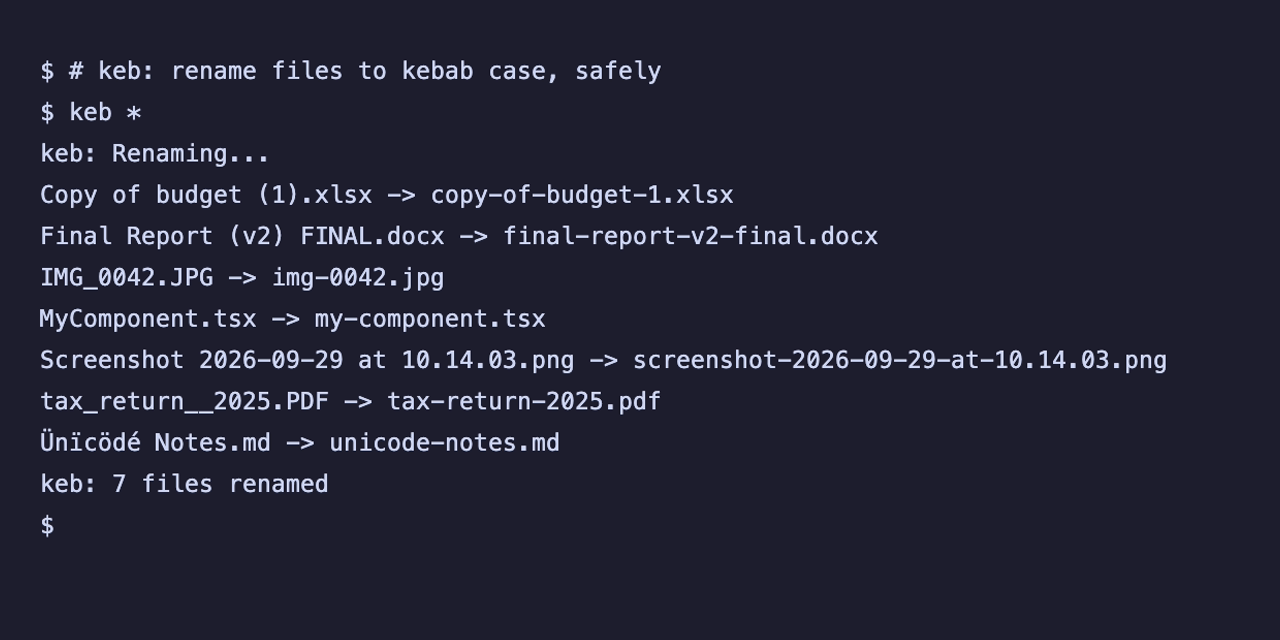
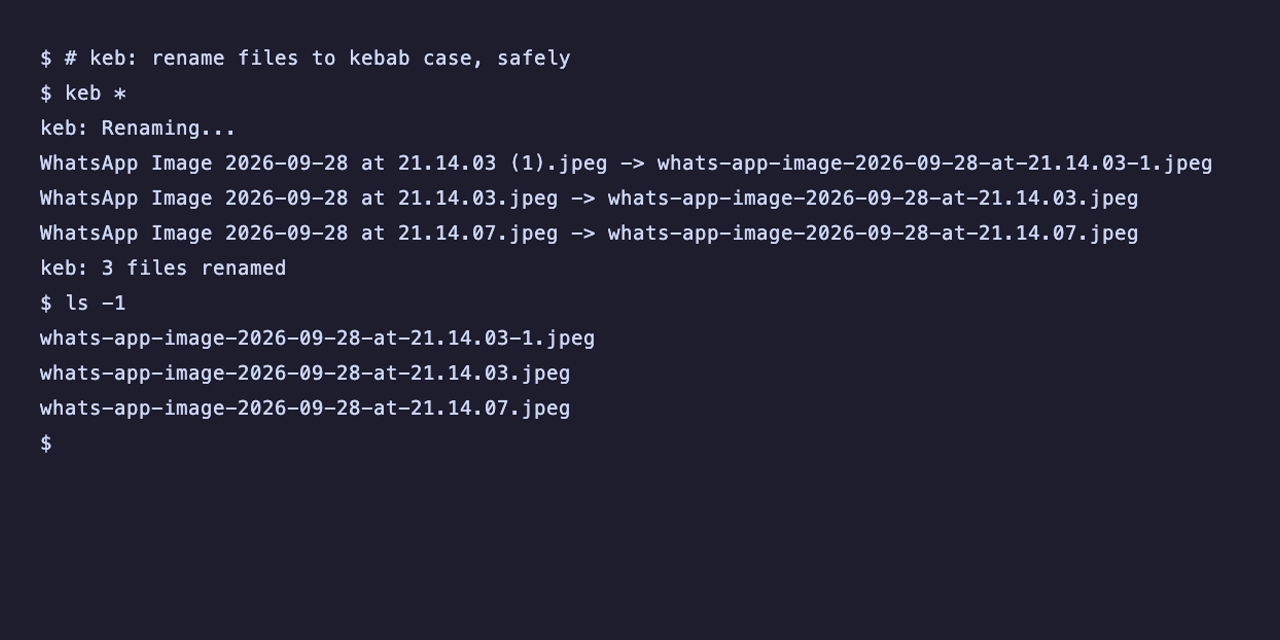
update main gif

Changed region(s): [[0.0312, 0.0625, 0.9688, 0.7812], [0.0312, 0.8125, 0.0625, 0.8438]]

diff --git a/next-steps.md b/next-steps.md
@@ -27,7 +27,7 @@ The plan for taking keb from "published" to "available everywhere, and known". W
   - The man page embeds the version → regenerate after every bump (added to `publish.md` step 1).
   - dist `include = ["completions/", "man/"]` — verified in a local `dist build` archive. `release.yml` unchanged.
   - `.gitattributes` forces LF on generated files so Windows CI doesn't fail the byte comparison.
-- [x] **Demo GIF.** `demo/setup.sh` recreates `playground/demo`; `demo/demo.tape` records `demo/keb.gif` (15 s, ~257 KB). Re-record: `cargo build --release && vhs demo/demo.tape`.
+- [x] **Demo GIF.** `demo/setup.sh` recreates `playground/demo` with three WhatsApp exports; `demo/demo.tape` records `demo/keb.gif` (list, `keb *`, list, with a reaction comment after each list; 16 s, ~164 KB). Re-record: `cargo build --release && vhs demo/demo.tape`.
 - [x] **README hero.** New tagline, GIF (absolute `raw.githubusercontent.com` URL so it renders on crates.io and npm — appears once pushed to `main`), and a "Why not `rename` or `mmv`?" section; every claim verified in the playground.
 - [x] `demo/` and `next-steps.md` excluded from the crate.
 
@@ -45,7 +45,7 @@ The plan for taking keb from "published" to "available everywhere, and known". W
   - Metadata is in `[package.metadata.deb]` / `[package.metadata.generate-rpm]`. The deb maintainer is `Adam Sawicki <frycz.dev@gmail.com>`.
   - Verified locally: built in `rust:1-bullseye` containers with dist's profile, then installed in `debian:bookworm` and `fedora:latest`. Checked `keb --version`, `man keb` (all sections, C locale), bash completion loading, file layout, auto-detected glibc dependency (`libc6 (>= 2.30)` / `GLIBC_2.30`), and clean removal. **The CI job itself is only proven on the next tag.**
 - [x] **cargo-binstall.** Works with no metadata. `cargo binstall keb@0.3.0 --disable-strategies quick-install,compile` installs from dist's GitHub assets (tested in a container).
-- [x] **Social preview image.** `demo/preview.tape` → `demo/preview.png` (1280×640, one frame of `keb *`, before → after on every line). Re-record: `cargo build --release && vhs demo/preview.tape`.
+- [x] **Social preview image.** `demo/preview.tape` → `demo/preview.png` (1280×640, one frame of `keb *` then `ls -1` on the same WhatsApp files). Re-record: `cargo build --release && vhs demo/preview.tape`.
 - [x] **Repo metadata command**, in "Owner, after batch 2" below.
 - [x] `CHANGELOG.md` `[Unreleased]` and `publish.md` (job order, verify step, recovery row, new "Linux packages" section with by-hand container checks) updated.
 
@@ -68,16 +68,81 @@ The plan for taking keb from "published" to "available everywhere, and known". W
 
 ## Batch 3 — package manifests (agent, after 0.4.0 is released)
 
-Needs the 0.4.0 release asset URLs and sha256 sums (from the Release's `.sha256` files).
+### State when batch 2 ended (2026-09-29)
 
-- [ ] **AUR:** two PKGBUILDs + `.SRCINFO` — `keb` (builds from the crate source) and `keb-bin` (prebuilt tarballs, x86_64 + aarch64). Install man page, completions and license. Verify with `makepkg` + `namcap` in an `archlinux` container.
-- [ ] **nixpkgs:** `pkgs/by-name/ke/keb/package.nix` using `rustPlatform.buildRustPackage`, `installShellFiles` for man + completions, `meta.license = lib.licenses.mit`, `meta.mainProgram = "keb"`. Verify with `nix-build` (local Nix or a `nixos/nix` container). Note: `tests/cli.rs` needs a writable temp dir; set `checkFlags`/`doCheck` if the sandbox breaks it.
-- [ ] **winget:** manifest set (version, installer, locale) for the Windows x64 zip, via `wingetcreate new` or hand-written; validate with `winget validate` if available.
-- [ ] **Scoop:** create `frycz/scoop-bucket` content — `keb.json` with `checkver` + `autoupdate` so future versions update themselves.
-- [ ] **aqua registry:** `pkgs/frycz/keb/registry.yaml` (github_release type, asset template per OS/arch). Makes `mise use aqua:frycz/keb` work.
-- [ ] Write `packaging.md`: per channel — what was prepared, where it lives, exact submission steps, and how to bump it on the next release.
+- **0.4.0 is released.** Published on crates.io, tagged `v0.4.0`, and the Release exists. The Release CI results: every build, `host`, Homebrew and both `custom-linux-packages` jobs succeeded. `publish-npm` failed as expected (the npm gap in `publish.md`), so `announce` was skipped.
+- **Not confirmed done by the owner yet.** Ask before assuming, and don't block on them:
+  - `npm publish` by hand.
+  - Upload the social preview.
+  - Run the `gh repo edit` command.
+- **`ci.yml` is red on Windows. Fix this before batch 3.** It is pre-existing, not from batch 2.
+  - Clippy used to fail first, on an `OsStr` import only the Unix code used; that is fixed in `6da4d71`. With clippy passing, 13 tests in `tests/cli.rs` now fail on `windows-latest` (run 36573886405). macOS and Ubuntu are green.
+  - Two causes, both path separators:
+    1. **Test-only:** the sandbox's `tree()` helper lists paths with `\`, while the tests expect `/`. Example: `["my-dir", "my-dir\\My File.md"]` vs `["my-dir", "my-dir/My File.md"]`.
+    2. **Real Windows output quirk:** keb builds the new path with `parent.join(new)`, so the output mixes separators: `./A Dir/My File.md -> ./A Dir\my-file.md`. Decide whether to keep the parent exactly as the user typed it and append the separator they used, or to accept native separators and normalise in the tests. The first is more consistent with "only the basename changes", and the `--absolute` and `json` outputs are affected the same way.
+  - Agents can't run `tests/cli.rs` locally (rules above). Iterate via CI on a branch the owner pushes, or reason from the failures in the log (`gh run view <id> --log-failed`).
+- **The `.deb`/`.rpm` job is now proven in CI.**
 
-**Done when:** every manifest builds/validates locally where tooling allows, and `packaging.md` lists the owner's submission steps.
+### Facts about the 0.4.0 Release (checked, don't re-derive)
+
+- **Base URL:** `https://github.com/frycz/keb/releases/download/v0.4.0/`
+- **Binary archives:**
+  - `keb-x86_64-unknown-linux-gnu.tar.xz`
+  - `keb-aarch64-unknown-linux-gnu.tar.xz`
+  - `keb-x86_64-apple-darwin.tar.xz`
+  - `keb-aarch64-apple-darwin.tar.xz`
+  - `keb-x86_64-pc-windows-msvc.zip`
+- **Linux packages:**
+  - `keb_0.4.0-1_amd64.deb`
+  - `keb_0.4.0-1_arm64.deb`
+  - `keb-0.4.0-1.x86_64.rpm`
+  - `keb-0.4.0-1.aarch64.rpm`
+- **Other assets:**
+  - `source.tar.gz`, dist's git archive of the tag
+  - `sha256.sum`, all sums in one file
+  - `keb-installer.sh`, `keb-installer.ps1`, `keb-npm-package.tar.gz`, `keb.rb`, `dist-manifest.json`
+- **Checksums:** every archive and package has a `<asset>.sha256` next to it. The format is `<hex> *<filename>`: note the `*` (binary mode), which matters for Scoop/winget regexes. Get the sums with `gh release download v0.4.0 -R frycz/keb --pattern '*.sha256' --pattern sha256.sum` into the scratchpad. Don't copy hashes from memory.
+- **Unix tarballs have a top-level directory:** `keb-<triple>/keb`, `keb-<triple>/man/keb.1`, `keb-<triple>/completions/{keb.bash,_keb,keb.fish,_keb.ps1,keb.elv}`, `keb-<triple>/{LICENSE-MIT,README.md,CHANGELOG.md}`.
+- **The Windows zip is flat:** `keb.exe`, `man/`, `completions/`, `LICENSE-MIT` and so on at the root, with no top-level directory.
+- **Source for from-source builds:** the crates.io tarball `https://static.crates.io/crates/keb/keb-0.4.0.crate` or the GitHub tag archive `https://github.com/frycz/keb/archive/refs/tags/v0.4.0.tar.gz`. Both include `man/` and `completions/`, so packagers install those files directly and never need to generate them.
+- **Build notes:** MSRV 1.85, edition 2024. The binary needs the default `cli` feature. `cargo build --release --locked` works.
+- **Tests:**
+  - `tests/cli.rs` creates dirs under `std::env::temp_dir()` and calls `git` (the decision-10 tests), so a sandboxed check needs `git` available (nix: `nativeCheckInputs = [ git ]`).
+  - keb itself shells out to `git mv` for tracked files, but it works without git installed, so git is not a runtime dependency.
+  - Agents still must not run `tests/cli.rs` on the host. Inside a container or Nix sandbox it's fine: that's the point of the sandbox.
+- **Identity for manifests:** maintainer `Adam Sawicki <frycz.dev@gmail.com>`, GitHub `frycz`, license `MIT` (0.4.0 is MIT only), homepage `https://github.com/frycz/keb`, description "Rename files to kebab case, safely and idempotently".
+
+### Tasks
+
+Put everything under `packaging/<channel>/` in this repo, and add `packaging/` to `exclude` in `Cargo.toml`. The owner copies each channel's files to its destination repo.
+
+- [ ] **AUR:** two PKGBUILDs + `.SRCINFO`.
+  - `keb` builds from the crate source with `cargo build --frozen --release`, running `cargo fetch --locked` in `prepare()`, per the Arch Rust package guidelines.
+  - `keb-bin` uses the prebuilt tarballs, with `source_x86_64`/`source_aarch64` and `sha256sums_x86_64`/`sha256sums_aarch64`, and `provides=(keb)` / `conflicts=(keb)`.
+  - Install the man page to `/usr/share/man/man1`, the completions to `/usr/share/bash-completion/completions/keb`, `/usr/share/zsh/site-functions/_keb` and `/usr/share/fish/vendor_completions.d/keb.fish`, and the license to `/usr/share/licenses/<pkgname>/`.
+  - Verify with `makepkg` + `namcap` in an `archlinux` container, as a non-root user.
+- [ ] **nixpkgs:** `pkgs/by-name/ke/keb/package.nix`.
+  - Use `rustPlatform.buildRustPackage` with `fetchFromGitHub` (`tag = "v${version}"`), plus `cargoHash`: get it with a fake hash first and the real one from the error.
+  - Use `installShellFiles` (`installManPage man/keb.1`, `installShellCompletion --cmd keb --bash completions/keb.bash --zsh completions/_keb --fish completions/keb.fish`), `meta.license = lib.licenses.mit` and `meta.mainProgram = "keb"`.
+  - Verify with `nix-build` in a `nixos/nix` container. If sandbox tests fail, prefer fixing inputs (`git`) over `doCheck = false`, and explain any `checkFlags` skips in a comment.
+- [ ] **winget:** manifest set for `frycz.keb` 0.4.0: version, `installer` and `defaultLocale` files.
+  - Installer: `InstallerType: zip` with `NestedInstallerType: portable`, `NestedInstallerFiles: [{RelativeFilePath: keb.exe, PortableCommandAlias: keb}]`, x64 only.
+  - Write the manifests by hand or with `wingetcreate new`. Validate with `winget validate` if a Windows host is available; otherwise check them against the published schema and say they are unvalidated.
+- [ ] **Scoop:** `keb.json` for a new `frycz/scoop-bucket` repo.
+  - The `64bit` URL is the Windows zip, with `bin: "keb.exe"`.
+  - `checkver` uses GitHub releases. `autoupdate` puts `$version` in the URL, and `hash.url` points at `$url.sha256`; check that Scoop's default regex copes with the `*` prefix.
+  - Include a minimal bucket `README.md`.
+- [ ] **aqua registry:** `pkgs/frycz/keb/registry.yaml` with `type: github_release`, `repo_owner: frycz`, `repo_name: keb`.
+  - `asset: keb-{{.Arch}}-{{.OS}}.{{.Format}}` with `replacements` amd64→x86_64, arm64→aarch64, darwin→apple-darwin, linux→unknown-linux-gnu, windows→pc-windows-msvc.
+  - `format: tar.xz`, with an override to `zip` on windows.
+  - The binary is at `files: [{name: keb, src: "keb-{{.Arch}}-{{.OS}}/keb"}]` on unix and flat `keb.exe` on windows.
+  - Add a `checksum` block using the per-asset `.sha256` files.
+  - Supported envs: darwin, linux, windows/amd64 (there is no windows/arm64 build). Also add `pkgs/frycz/keb/pkg.yaml`.
+  - Verify with `aqua` in a container if practical: `aqua g`/`aqua i` against a local registry.
+- [ ] Write `packaging.md`. For each channel: what was prepared, where it lives, exact submission steps (accounts, fork/PR, the reviewers' usual asks), and how to bump it on the next release. Also say which channels will update themselves (Scoop autoupdate, the nixpkgs `r-ryantm` bot, aqua Renovate) as input for batch 5.
+- [ ] Add a pointer to `packaging.md` in `publish.md`'s "Verify" step, for checking each channel after a release.
+
+**Done when:** every manifest builds/validates locally where tooling allows (say plainly which ones could not be validated), and `packaging.md` lists the owner's submission steps.
 
 ### Owner, after batch 3
 
@@ -138,7 +203,7 @@ The agent-side work ends here. What remains is the owner's, and it's ongoing:
 |---|---|---|
 | Batch 1 — license, completions, man, GIF, README | agent | ✅ done |
 | Batch 2 — man polish, .deb/.rpm, binstall, preview image, repo metadata | agent | ✅ done |
-| Release 0.4.0, upload preview, set topics | owner | batch 2 |
+| Release 0.4.0, upload preview, set topics | owner | ✅ released; npm, preview, topics unconfirmed |
 | Batch 3 — AUR, nixpkgs, winget, Scoop, aqua manifests | agent | 0.4.0 checksums |
 | Submit packages, answer reviews | owner | batch 3 |
 | Batch 4 — blog post + launch posts | agent | anytime |
